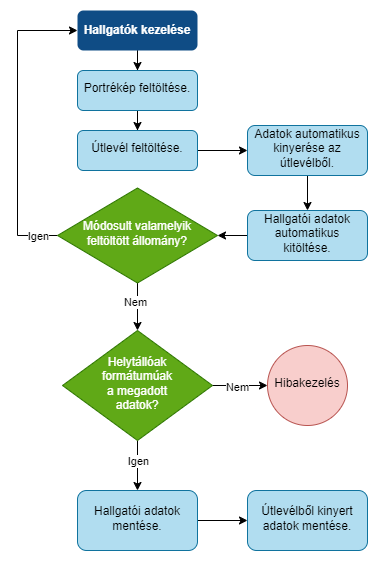
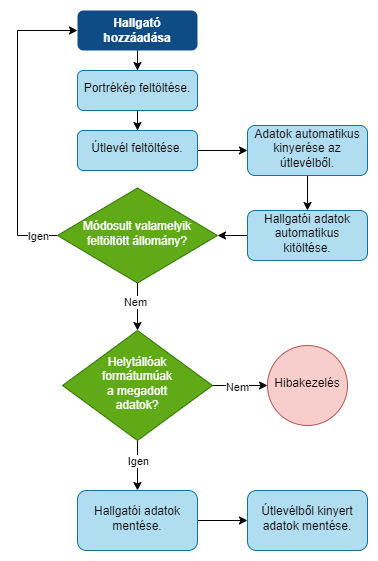
Updated README.

Changed region(s): [[0.2037, 0.0303, 0.5238, 0.0909]]

diff --git a/README.md b/README.md
@@ -33,7 +33,7 @@
         <li><a href="#installation">Installation</a></li>
       </ul>
     </li>
-    <li><a href="#flowchart">Flowchart</a></li>
+    <li><a href="#flowcharts">Flowcharts</a></li>
     <li><a href="#known-bugs">Known bugs</a></li>
     <li><a href="#contact">Contact</a></li>
 <li><a href="#license">License</a></li>
@@ -104,16 +104,16 @@ The frontend is also containerized using Docker, and can be found on this reposi
 ## Screenshots
 
 The main page of the application showing the students in a table:
-![mainPage](./static/mainPage.jpg)
+![mainPage](./static/mainPage.png)
 
 The student addition page:
-![studentAdditionPage](./static/addNewStudentPage.jpg)
+![studentAdditionPage](./static/addNewStudent.png)
 
 Edit student page:
-![editStudentPage](./static/editStudentPage.jpg)
+![editPage](./static/editStudentPage.png)
 
-Login page:
-![loginPage](./static/loginPage.jpg)
+User data page:
+![userData](./static/myDataPage.png)
 
 <p align="right">(<a href="#top">back to top</a>)</p>
 
@@ -148,11 +148,19 @@ Here you can find the only, but the most important one, prerequisity to run the 
 
 <div id="known-bugs"></div>
 
-<div id="flowchart"></div>
+<div id="flowcharts"></div>
 
-## Flowchart
+## Flowcharts
 
-![flowChart](./static/studentManagerFlowchart.png)
+![auth](./static/auth.png)
+![addStudent](./static/studentAdd.png)
+![editStudent](./static/editStudent.png)
+![validateStudent](./static/validate.png)
+![studentData](./static/myData.png)
+![filterData](./static/filter.png)
+![themeChange](./static/themeChange.png)
+![report](./static/reporting.png)
+![export](./static/export.png)
 
 <p align="right">(<a href="#top">back to top</a>)</p>
 
